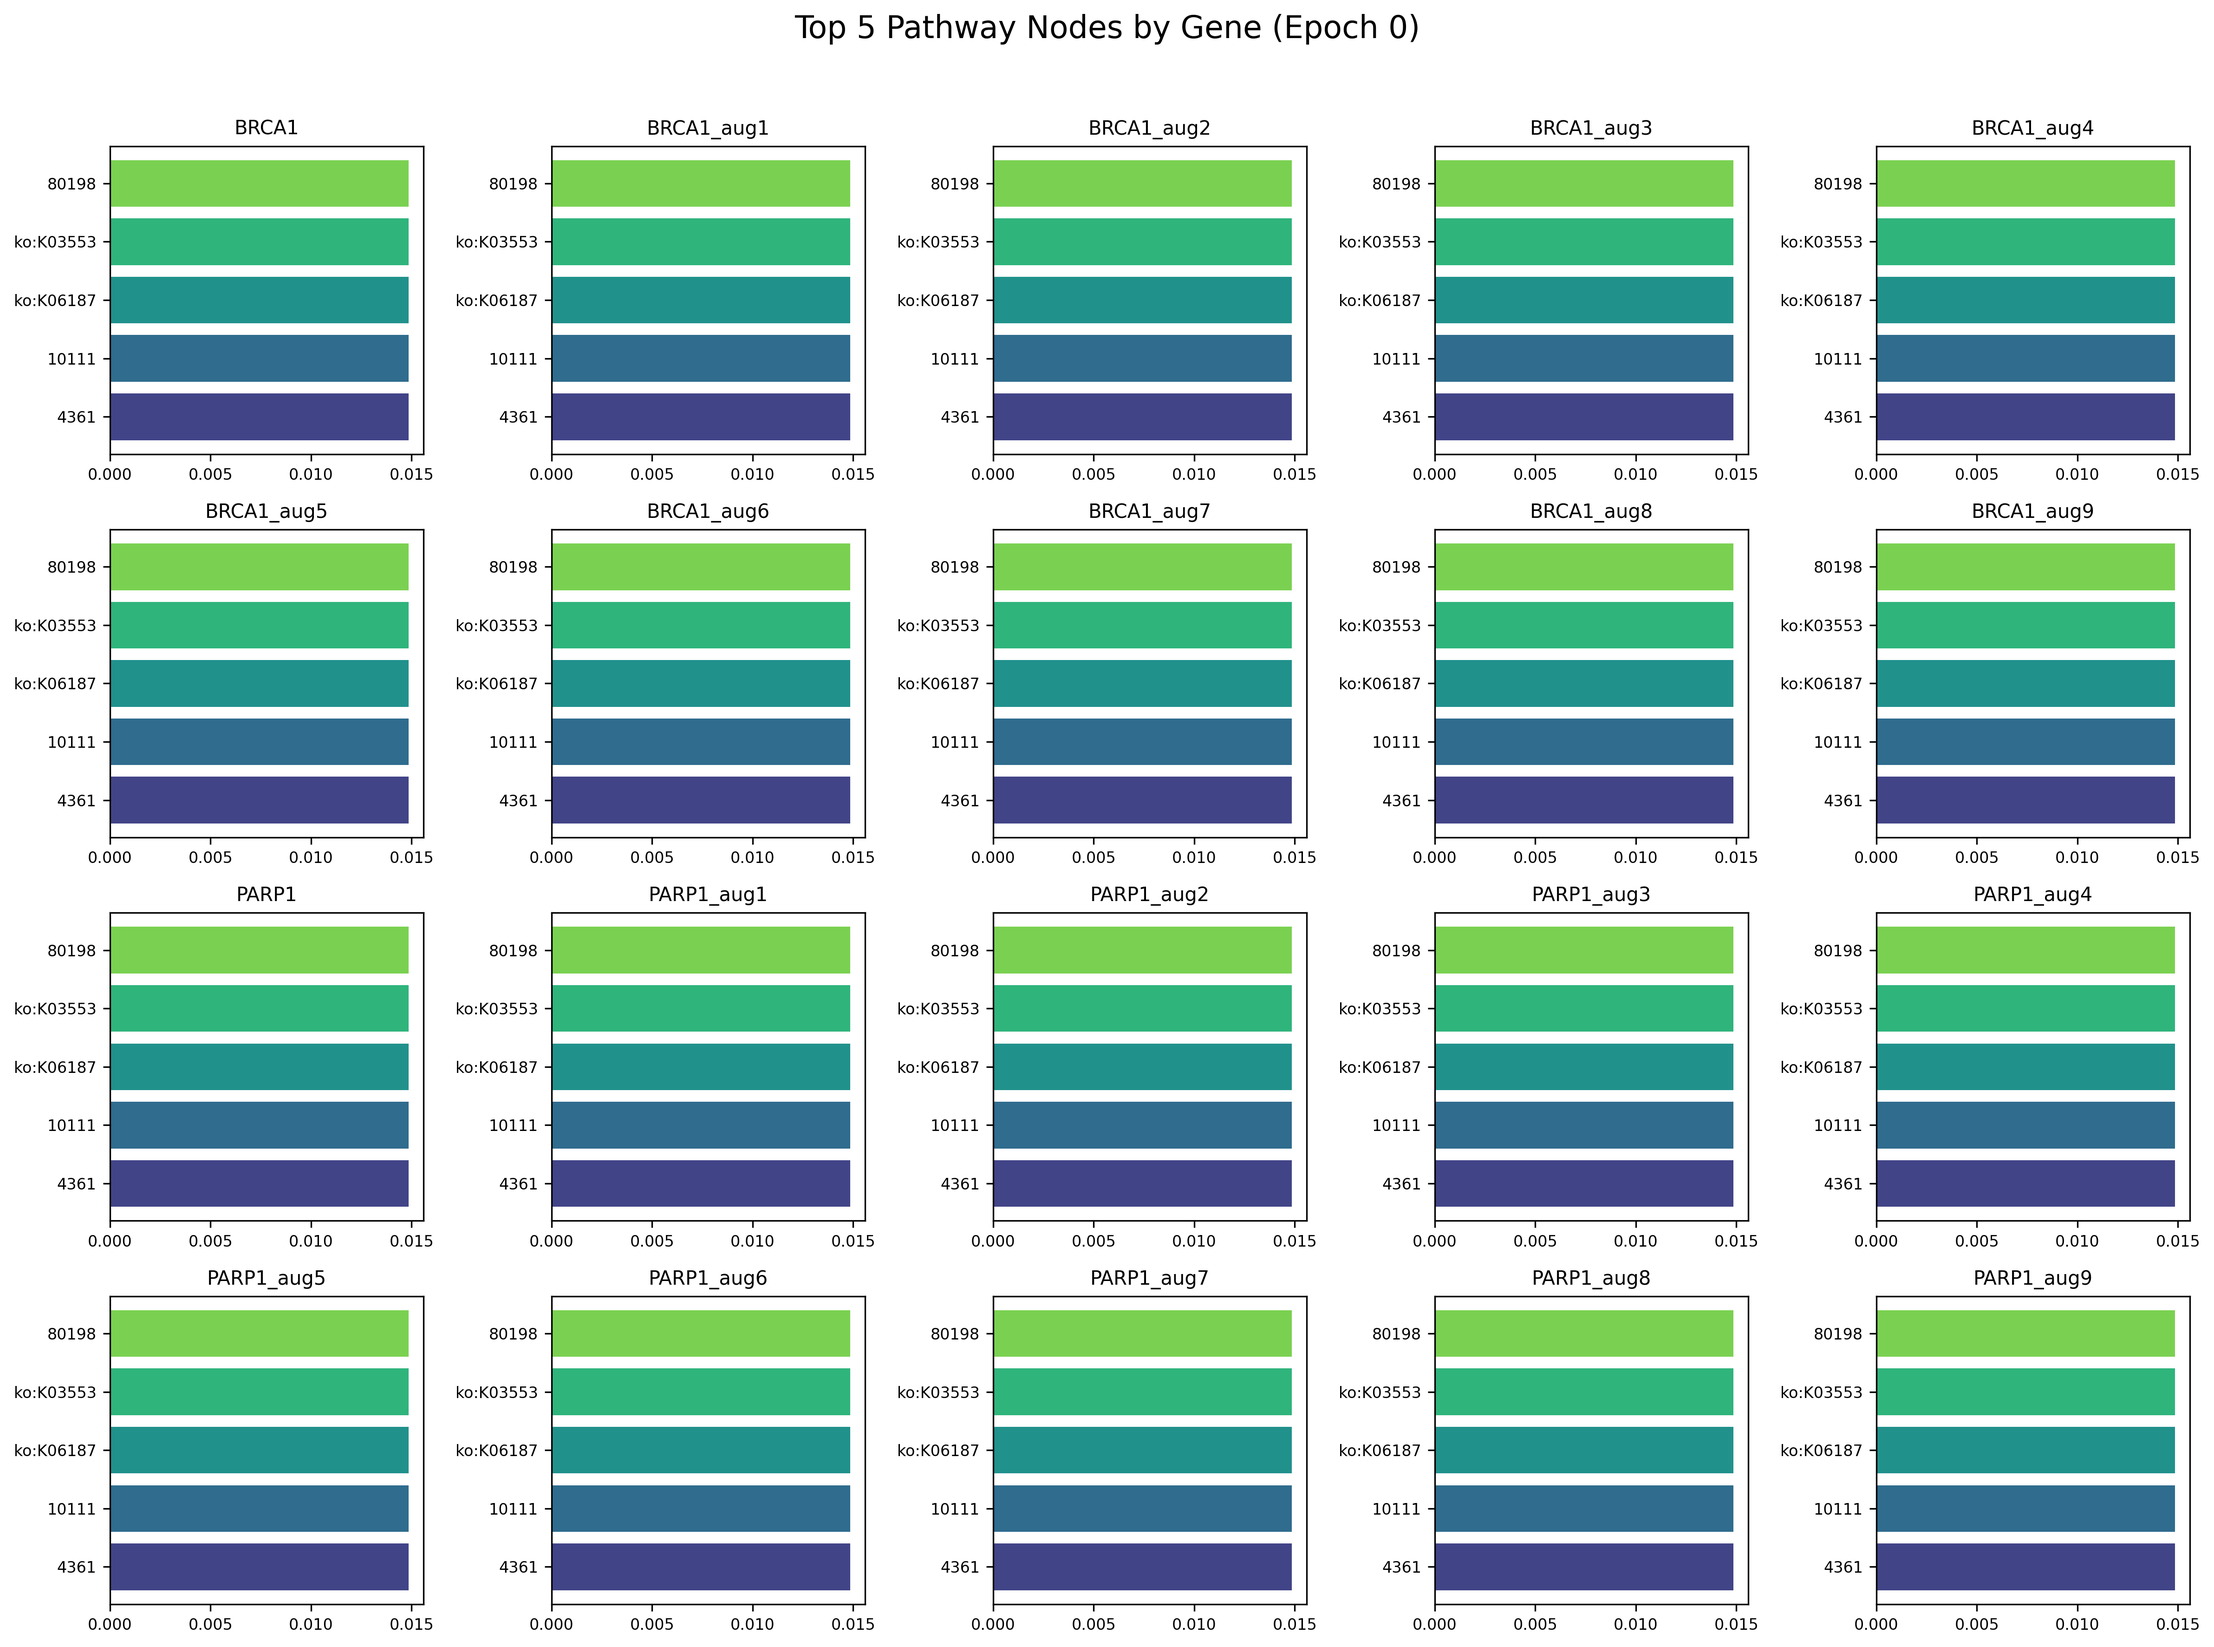
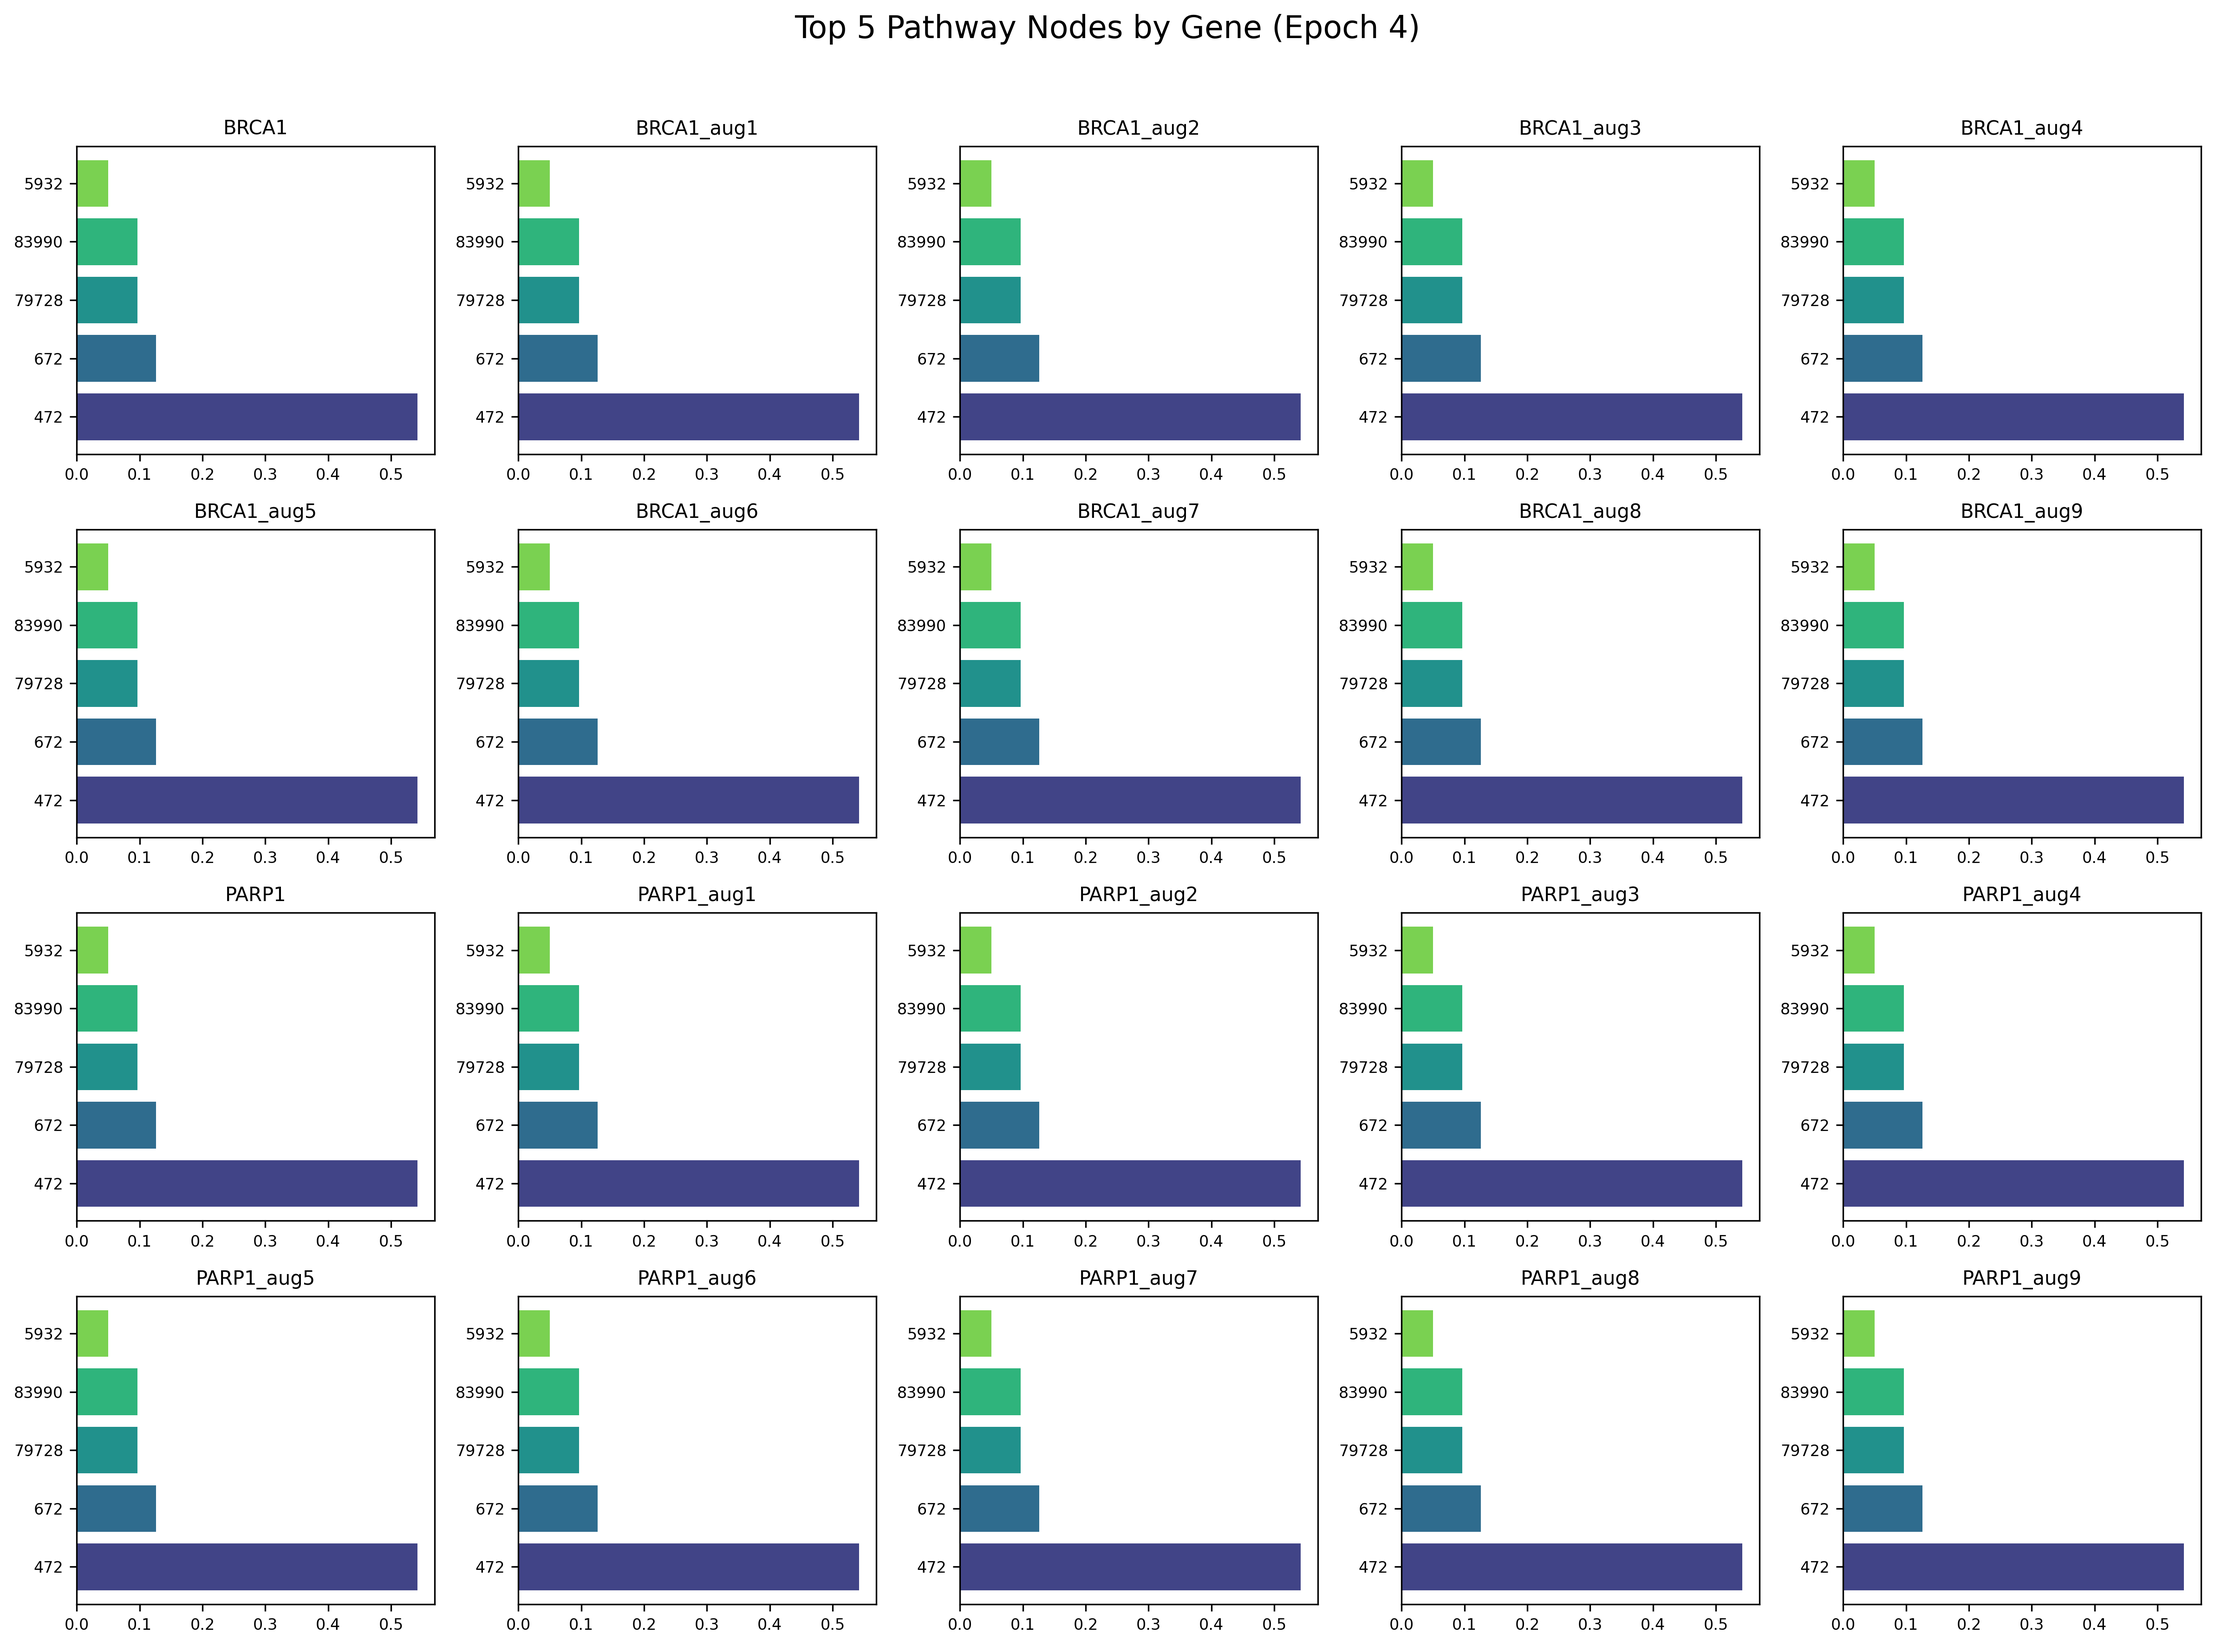
better model

diff --git a/gene_pathway_ai/src/train.py b/gene_pathway_ai/src/train.py
@@ -161,31 +161,37 @@ def train_one_epoch(model, train_loader, optimizer, criterion, scaler, device, p
         
     return total_loss / len(train_loader.dataset)
 
-def evaluate(model, val_loader, device, pathway_data, criterion, epoch=None, pathway_node_names=None, gene_names=None, 
-             is_best=False, final_epoch=False):
+def evaluate(model, val_loader, device, pathway_data, criterion, epoch=None, 
+             pathway_node_names=None, gene_names=None, is_best=False, final_epoch=False):
     model.eval()
+    preds_raw = [] 
     preds, true_labels = [], []
-    total_loss = 0.0
-    all_gene_indices = []
-    all_attn_weights = []
+    total_loss = 0.0  
 
     with torch.no_grad():
-        batch_start_idx = 0
-        for batch_idx, (genes, disease_counts, labels) in enumerate(val_loader):
+        for genes, disease_counts, labels in val_loader:
             genes, disease_counts, labels = genes.to(device), disease_counts.to(device), labels.to(device)
             predictions, attn_weights, _ = model(genes, pathway_data, disease_counts=disease_counts)
             loss = criterion(predictions, labels, attn_weights)
             total_loss += loss.item() * genes.size(0)
-            all_attn_weights.append(attn_weights.cpu())
-            batch_size = len(genes)
-            batch_indices = list(range(batch_start_idx, batch_start_idx + batch_size))
-            all_gene_indices.extend(batch_indices)
-            batch_start_idx += batch_size
-            
+            preds_raw.extend(torch.sigmoid(predictions).cpu().numpy())
             predicted = (torch.sigmoid(predictions) > 0.5).cpu().numpy()
             preds.extend(predicted)
             true_labels.extend(labels.cpu().numpy())
-    
+    if len(preds_raw) > 0:
+        true_labels_np = np.array(true_labels)
+        best_f1 = 0
+        best_threshold = 0.5
+        
+        for threshold in np.arange(0.3, 0.7, 0.05):
+            thresholded_preds = (np.array(preds_raw) > threshold).astype(int)
+            f1 = f1_score(true_labels_np, thresholded_preds, zero_division=0)
+            if f1 > best_f1:
+                best_f1 = f1
+                best_threshold = threshold
+        if best_f1 > f1_score(true_labels, preds, zero_division=0):
+            preds = (np.array(preds_raw) > best_threshold).astype(int).tolist()
+            print(f"Optimized threshold: {best_threshold:.2f}")
     val_loss = total_loss / len(val_loader.dataset) if len(val_loader.dataset) > 0 else 0
     accuracy = accuracy_score(true_labels, preds)
     precision = precision_score(true_labels, preds, zero_division=0)
@@ -295,7 +301,10 @@ def main(args: Dict, preloaded_pathway_data=None) -> None:
     ).to(device)
     
     print(f"Model initialized with sequence length {seq_len} and {pathway_feat_dim} pathway features")
-    optimizer = optim.AdamW(model.parameters(), lr=2e-5)
+    from torch.optim.lr_scheduler import ReduceLROnPlateau
+    optimizer = optim.AdamW(model.parameters(), lr=5e-5, weight_decay=0.01) 
+    scheduler = ReduceLROnPlateau(optimizer, mode='min', factor=0.5, patience=3, min_lr=1e-6)
+    
     scaler = GradScaler()
     criterion = HybridLoss()
     pathway_node_names = []
@@ -312,7 +321,9 @@ def main(args: Dict, preloaded_pathway_data=None) -> None:
 
     best_val_loss = float('inf')
     patience_counter = 0
-    patience = 5 
+    
+    patience = 10  
+    
     is_best = False
     
     for epoch in range(args.epochs):
@@ -355,6 +366,8 @@ def main(args: Dict, preloaded_pathway_data=None) -> None:
             if patience_counter >= patience:
                 print(f"Early stopping triggered after {epoch+1} epochs")
                 break
+        
+        scheduler.step(val_loss)
         
         if epoch % 5 == 0:  
             all_embeddings, all_labels = gather_latent_space(model, val_loader, device, pathway_data)

diff --git a/gene_pathway_ai/src/losses.py b/gene_pathway_ai/src/losses.py
@@ -3,34 +3,25 @@ import torch.nn as nn
 import torch.nn.functional as F
 
 class HybridLoss(nn.Module):
-    def __init__(self, alpha: float = 0.25, gamma: float = 2.0, 
-                 weight_focal: float = 0.7, weight_contrastive: float = 0.3):
-        super(HybridLoss, self).__init__()
+    def __init__(self, alpha=0.7, beta=0.2, gamma=0.1):  
+        super().__init__()
         self.alpha = alpha
+        self.beta = beta
         self.gamma = gamma
-        self.w_focal = weight_focal
-        self.w_contrastive = weight_contrastive
+        self.bce = nn.BCEWithLogitsLoss()
         
-    def focal_loss(self, logits, targets):
-        probs = torch.sigmoid(logits)
-        ce_loss = F.binary_cross_entropy_with_logits(logits, targets, reduction='none')
-        p_t = probs * targets + (1 - probs) * (1 - targets)
-        focal_term = (1 - p_t) ** self.gamma
-        alpha_factor = targets * self.alpha + (1 - targets) * (1 - self.alpha)
-        loss = alpha_factor * focal_term * ce_loss
-        return loss.mean()
-    
-    def attention_contrastive_loss(self, attn_weights, targets):
-        if targets.dim() > 1:
-            targets = targets.view(-1)
+    def forward(self, predictions, targets, attention_weights=None):
+        bce_loss = self.bce(predictions, targets)
+        pt = torch.exp(-bce_loss)
+        focal_weight = (1-pt)**2
+        focal_loss = focal_weight * bce_loss
         
-        pos_mask = (targets == 1).float()
-        node_attention_avg = attn_weights.mean(dim=1)  
-        loss = pos_mask * (1 - node_attention_avg) + (1 - pos_mask) * node_attention_avg
+        total_loss = self.alpha * focal_loss
         
-        return loss.mean()
-    
-    def forward(self, logits, targets, attn_weights):
-        lf = self.focal_loss(logits, targets)
-        lc = self.attention_contrastive_loss(attn_weights, targets)
-        return self.w_focal * lf + self.w_contrastive * lc
+        if attention_weights is not None:
+            attn_diversity_loss = -torch.mean(
+                torch.std(attention_weights, dim=1)
+            )
+            total_loss += self.beta * attn_diversity_loss
+        
+        return total_loss

diff --git a/gene_pathway_ai/src/model.py b/gene_pathway_ai/src/model.py
@@ -122,11 +122,11 @@ class CrossModalAttentionLayer(nn.Module):
 
 class FusionModel(nn.Module):
     def __init__(self, gene_dim: int = 256, pathway_dim: int = 256, 
-                 hidden_dims: list = [128, 64], output_dim: int = 1,
+                 hidden_dims: list = [256, 128], output_dim: int = 1,  
                  use_gradient_checkpointing: bool = False, seq_len: int = 512,
                  embed_dim: Optional[int] = None, hidden_dim: Optional[int] = None,
-                 pathway_data: Optional[object] = None, use_disease_data: bool = False,
-                 disease_emb_dim: int = 16):
+                 pathway_data: Optional[object] = None, use_disease_data: bool = True,  
+                 disease_emb_dim: int = 32):  
         super().__init__()
         if embed_dim is not None:
             gene_dim = embed_dim
@@ -156,6 +156,9 @@ class FusionModel(nn.Module):
         if self.use_disease_data:
             self.disease_encoder = nn.Sequential(
                 nn.Linear(1, disease_emb_dim),
+                nn.LayerNorm(disease_emb_dim), 
+                nn.ReLU(),
+                nn.Linear(disease_emb_dim, disease_emb_dim),  
                 nn.ReLU()
             )
             mlp_input_dim = gene_dim + gene_dim + disease_emb_dim

diff --git a/gene_pathway_ai/src/data_loader.py b/gene_pathway_ai/src/data_loader.py
@@ -73,6 +73,9 @@ def load_gene_sequences(file_path: str, max_length: int = 10000, augment: bool =
     return seq
 
 def apply_augmentations(seq: str, mutation_rate: float, deletion_rate: float) -> str:
+    mutation_rate = mutation_rate * 10 
+    deletion_rate = deletion_rate * 10 
+    
     nucleotides = ['A', 'C', 'G', 'T']
     seq_list = list(seq)
     original_length = len(seq_list)
